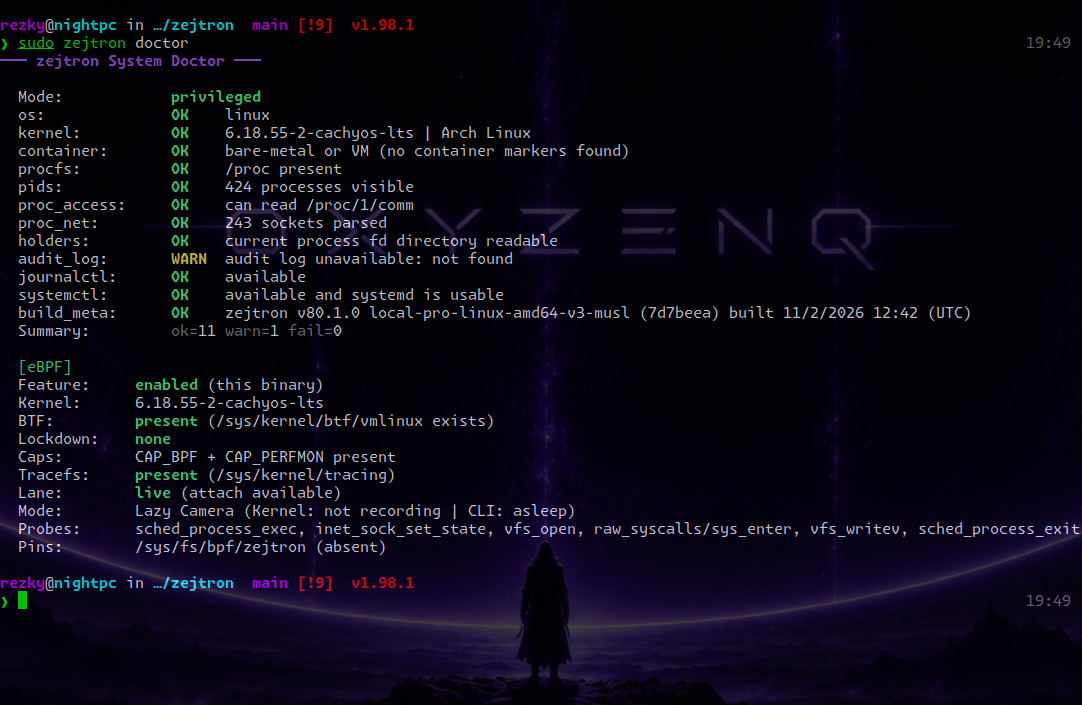
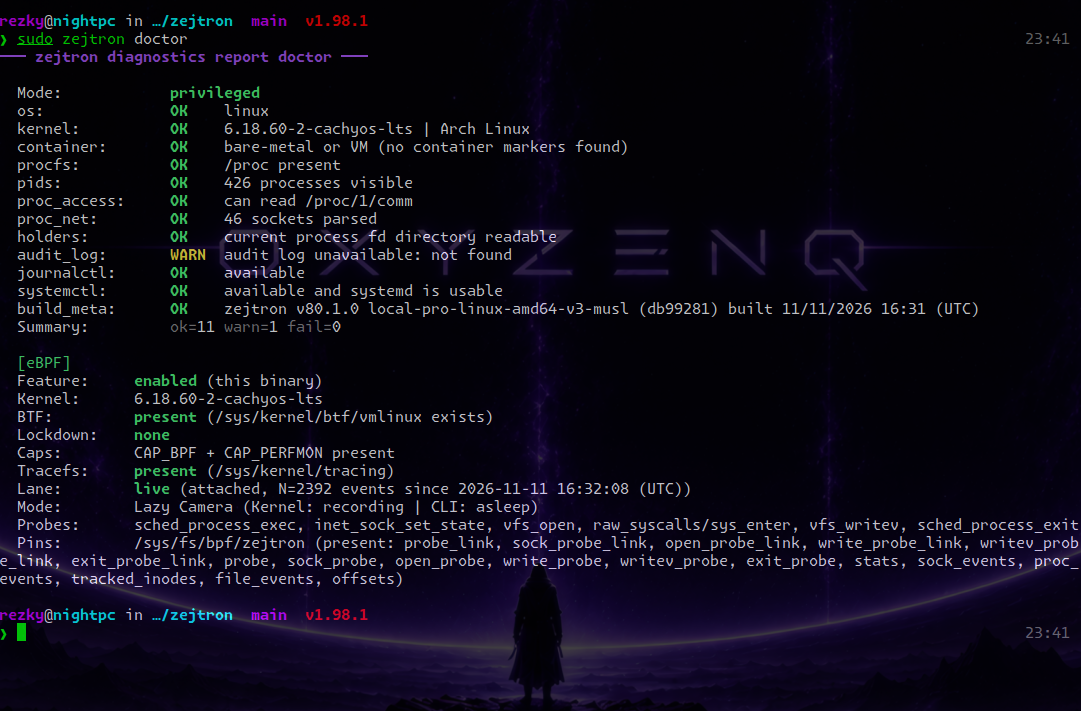
update demo assets

diff --git a/assets/signature-assets.md b/assets/signature-assets.md
@@ -16,8 +16,8 @@ bytes are the pin.
 | Asset | Role | Size (bytes) |
 |---|---|---|
 | `assets/zejtron-original-logo-2026.png` | the official logo | 1,436,337 |
-| `assets/zejtron-demo-doctor.png` | the doctor surface demo capture | 503,738 |
-| `assets/zejtron-demo-why.png` | the why surface demo capture | 471,142 |
+| `assets/zejtron-demo-doctor.png` | the doctor surface demo capture | 519,707 |
+| `assets/zejtron-demo-why.png` | the why surface demo capture | 466,176 |
 | `assets/qr/bitcoin.png` | bitcoin receive-address QR | 575 |
 | `assets/qr/ethereum.png` | ethereum receive-address QR | 591 |
 | `assets/qr/solana.png` | solana receive-address QR | 595 |
@@ -29,8 +29,8 @@ the repository root):
 09ec09fcdc4815e23373cb266bb120aa4e1af140fb9d598e117d05478a791b47  assets/qr/bitcoin.png
 4eb520de0fe258d2c82ba07ccba8d9e48bafc63904d022a83cc42b59d1ed2ac7  assets/qr/ethereum.png
 bca56b0a454daf06ff2d57fe401719553e28733e73479de2652a0740a9e87d1a  assets/qr/solana.png
-77f5a87a731499c090cfb565805a89aaccd1b638cf028c57f14b0973d1d75c20  assets/zejtron-demo-doctor.png
-07f52d9efa4780e446b8f8850c0fadb84b59be00cc97968849d2afc516ad9edf  assets/zejtron-demo-why.png
+9ea6142a2e8b088b51b97ba21f0a698cc8aebc6cb6750a3d4e2943cf206d2474  assets/zejtron-demo-doctor.png
+81bef1cf1eec0c4bcf3a4c9ec0fd3968269b9a0d448272c96b83dc68b7b1f58a  assets/zejtron-demo-why.png
 517a96e06b2276021263a7cbd239c1dac9f828ab1937dd6f05153ecade5cf7d8  assets/zejtron-original-logo-2026.png
 ```
 
